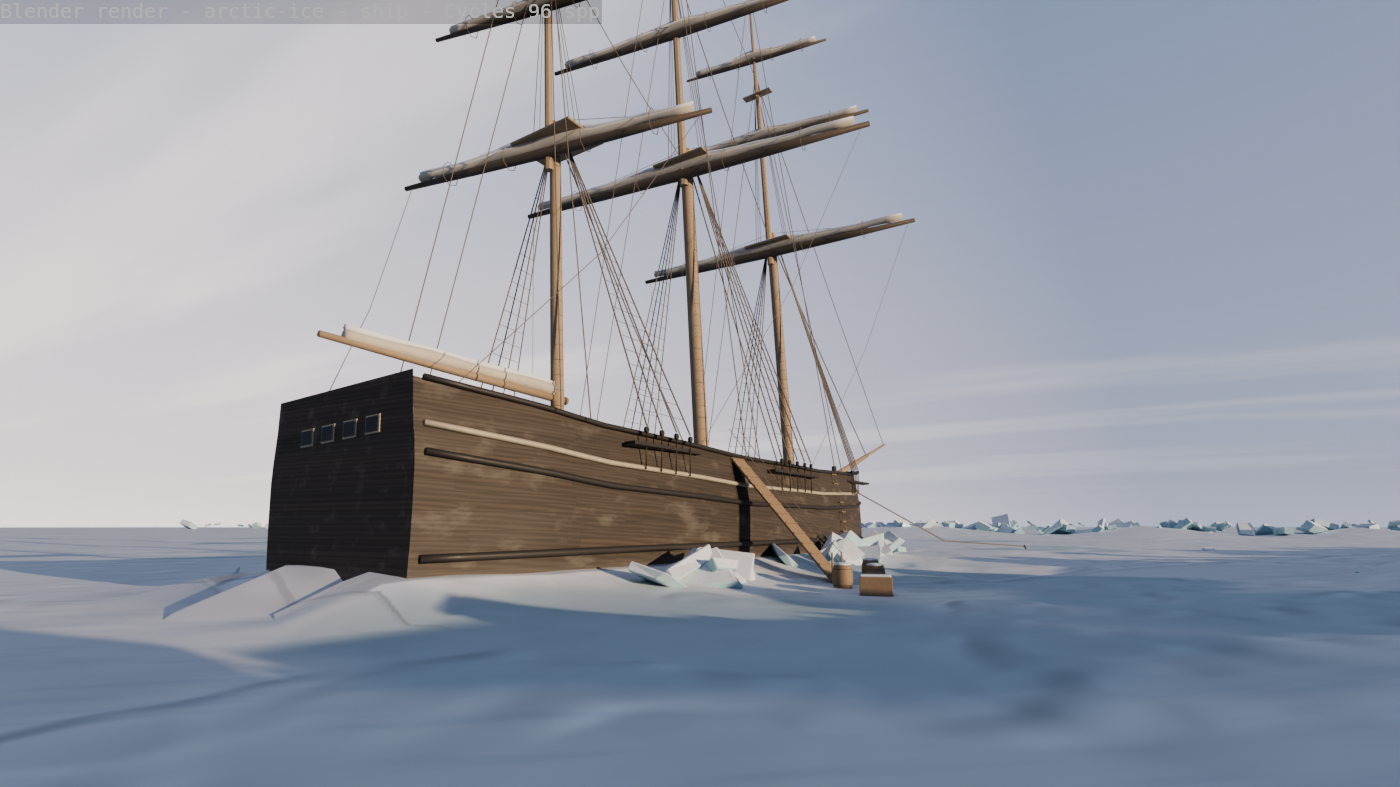
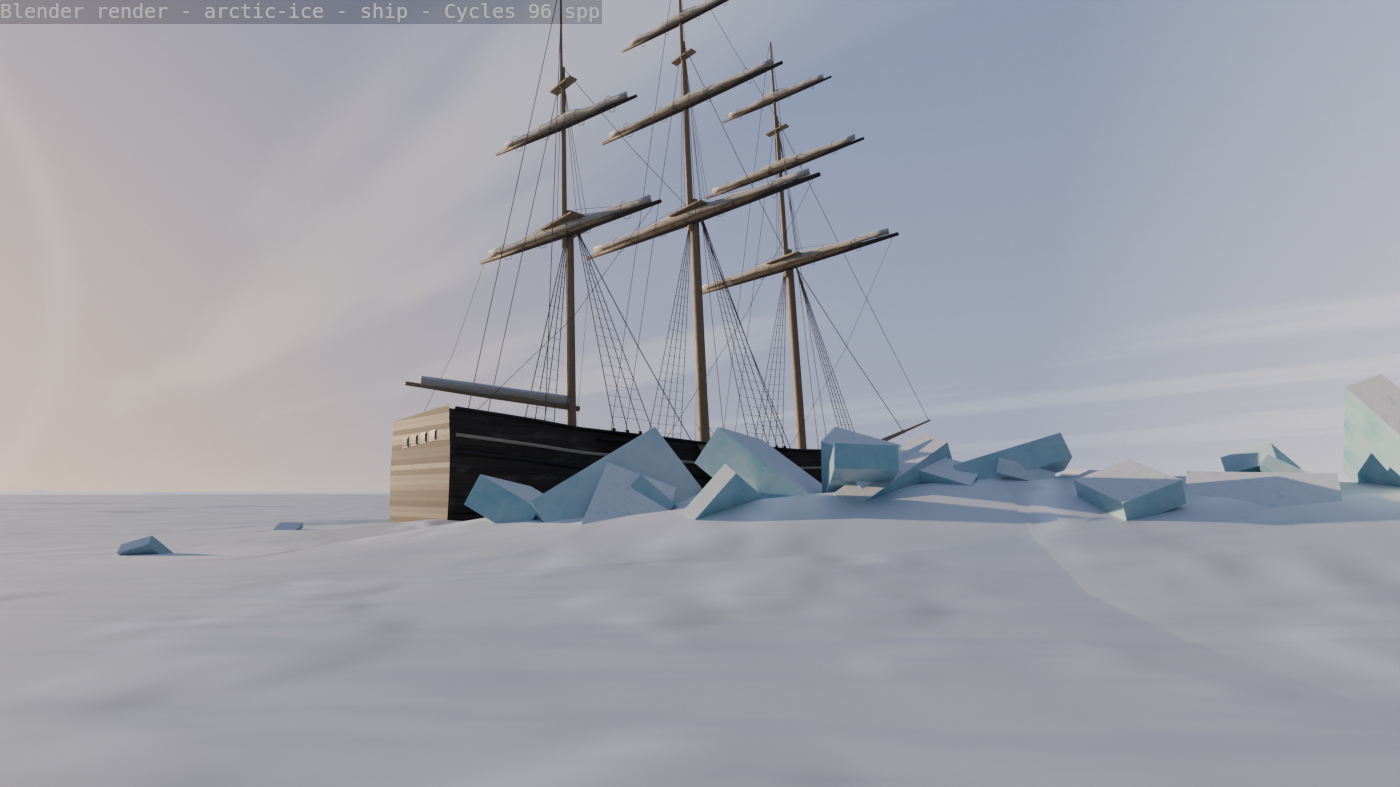
Arctic ice: bring Walton's ship into the reading view
The reader now faces west-north-west with the ship broadside 55 m off on the left of the page (her bow about 22
degrees left of centre, so the page does not hide her), the low sun behind her for a silhouette and rim light. The
sledge track runs from her gangway past the reader's right, so it leads the eye to her, and a pressure ridge runs
out from her stern. The ice anchor is now a deliberate rig: a heavier hawser from the bow to a bedded anchor with
its ring and fluke and a mound of chipped ice, 12 m ahead of her. The ice blocks have more colour variation (clear
blue-green and milky old ice). The ship is moved by translation only, so the hull planking stays aligned.

Outdoor. 42.2k triangles, 17 meshes, 10.7 MB textures. Re-exported to out/arctic-ice/arctic_ice.gltf (out/ is not
committed). Lights unchanged in kind: light.sun (now from about 112 degrees west of north, behind the ship) and
light.sky. Sound, wind and water suggestions as before ("wind-high:0.75+rigging:0.35", Wind 0.75, a calm pond).

diff --git a/blender/build_arctic_ice.py b/blender/build_arctic_ice.py
@@ -9,13 +9,13 @@ half a mile ... We watched the rapid progress of the traveller with our telescop
 distant inequalities of the ice."
 "We are still surrounded by mountains of ice, still in imminent danger of being crushed in their conflict."
 
-The reader stands on the snow-covered floe a few metres off the ship's starboard side, late on a summer night when
+The reader stands on the snow-covered floe fifty-five metres off the ship's starboard beam, late on a summer night when
 the sun hangs a few degrees above the northern horizon. The ship, a three-masted vessel of some 300 tons, lies frozen
 in with a slight list, her sails furled and snow-laden on the yards, her rigging rimed, ice rafted up against her
-side; a gangway and an ice anchor's hawser run down to the floe. A dog-sledge's track starts by her side, passes at
-the reader's right and runs away across the floe toward the north-east, between hummocks and pressure ridges,
-until it is lost among the distant inequalities of the ice, under a far tabular berg. On the left ahead a dark lead
-of open water cuts the floe. The low sun on the right throws long blue shadows across the snow; a faint halo and
+side; a gangway and an ice anchor's hawser run down to the floe. A dog-sledge's track runs from her gangway past
+the reader's right and away across the floe behind the reader toward the north-east, between hummocks and pressure ridges,
+until it is lost among the distant inequalities of the ice. A far tabular berg stands on the horizon; ahead a dark lead
+of open water cuts the floe. The low sun stands behind the ship, rimming her masts and throwing long blue shadows; a faint halo and
 sun dogs ring it. No people.
 
 Everything is procedural (no downloaded models, textures or HDRIs). The floe is a height function in numpy: two
@@ -25,7 +25,7 @@ on the sky dome. Ice blocks of the ridges are bevelled boxes with a baked ice-an
 and rig follow the Pequod's (build_pequod_deck.py), rebuilt for a ship seen from the ice.
 
 Node names Unity relies on:
-  anchor.reader.entrance  the reader's feet on the floe (z = 0), facing north-north-east, the ship on the left
+  anchor.reader.entrance  the reader's feet on the floe (z = 0), facing west-north-west, the ship broadside on the left of the page
   anchor.reader.look      eye height (1.55 m), 2 m ahead
   anchor.scene.centre     the reader's feet
   anchor.ship.mainmast, anchor.ship.gangway, anchor.track.far (the sledge track's vanishing point), anchor.lead
@@ -61,14 +61,14 @@ T0 = time.time()
 def log(*a): print(f"[{time.time() - T0:6.1f}s]", *a, flush=True)
 
 EYE = 1.55
-LOOK_AZ = 28.0
-SUN_AZ, SUN_EL = 92.0, 8.5
+LOOK_AZ = -71.0
+SUN_AZ, SUN_EL = -112.0, 8.5
 def az_dir(az): a = math.radians(az); return Vector((math.sin(a), math.cos(a), 0.0))
 SUN_DIR = (az_dir(SUN_AZ) * math.cos(math.radians(SUN_EL)) + Vector((0, 0, math.sin(math.radians(SUN_EL))))).normalized()
 S_ = np.array(SUN_DIR)
 WL = -0.35
 R_NEAR, R_GEO, R_SKY = 40.0, 1000.0, 1150.0
-SX = -9.5                                   # the ship's centreline
+SX, SY = -54.2, -9.6                        # the ship's centreline x and its midships y (55 m off, her bow 22 degrees left of the page)
 
 # ============================================================================= the floe
 def seg_dist(x, y, pts):
@@ -82,18 +82,18 @@ def seg_dist(x, y, pts):
     return best, s_at
 
 RIDGES = [  # (polyline, crest height, half width)
-    ([(13, -24), (15, -6), (17, 8), (23, 26), (36, 48), (52, 64)], 1.7, 3.2),
+    ([(25, -30), (28, -12), (34, 0), (44, 10)], 1.7, 3.2),
     ([(-70, 58), (-35, 86), (0, 104), (34, 116), (70, 128)], 1.5, 3.5),
-    ([(-48, -58), (-5, -72), (40, -64), (95, -40)], 1.9, 4.0),
+    ([(-6, -10), (-18, -15), (-32, -20), (-45, -25.5)], 1.6, 2.6),          # the ridge that leads the eye to the ship's stern
     ([(95, 250), (180, 290), (290, 300), (420, 290)], 2.4, 6.0),
     ([(-420, 160), (-300, 240), (-200, 320), (-80, 380)], 2.2, 6.0),
     ([(250, -60), (330, 40), (400, 140)], 2.0, 6.0),
     ([(-300, -180), (-180, -260), (-60, -330), (80, -380)], 2.2, 6.0),
     ([(520, 520), (640, 600), (760, 700)], 2.6, 7.0),
 ]
-TRACK = [(-4.4, -6.0), (-1.0, -2.0), (1.5, 1.0), (4.0, 6.5), (9.0, 16.0), (20.0, 34.0), (40.0, 62.0), (70.0, 96.0),
-         (120.0, 150.0), (190.0, 214.0), (250.0, 245.0), (340.0, 340.0), (470.0, 460.0), (640.0, 610.0), (900.0, 840.0)]
-LEAD = [(-330.0, 150.0), (-200.0, 168.0), (-90.0, 186.0), (0.0, 200.0), (55.0, 222.0), (80.0, 246.0)]
+TRACK = [(-46.5, -13.6), (-36.0, -12.0), (-24.0, -8.5), (-13.0, -4.0), (-6.0, -0.8), (-0.4, 1.5), (6.0, 6.0), (20.0, 16.0), (50.0, 40.0),
+         (100.0, 80.0), (180.0, 140.0), (300.0, 230.0), (480.0, 360.0), (700.0, 520.0), (900.0, 660.0)]   # from the gangway, past the reader's right, away
+LEAD = [(-260.0, 180.0), (-170.0, 150.0), (-90.0, 140.0), (-20.0, 170.0), (40.0, 230.0), (70.0, 260.0)]
 LEAD_W = 9.0
 
 def lead_half(s):
@@ -109,8 +109,8 @@ def floe(x, y):
         hh = h * (0.55 + 0.7 * fbm(s / 14.0, h * 3.0, 3, seed=4))
         z = z + hh * np.exp(-(d / hw) ** 2) + 0.25 * hh * np.exp(-(d / (hw * 2.5)) ** 2)
     # the snow banked against the ship, the trodden track (a little sunk)
-    dsh = np.abs(x - SX) - shiphalf(y)
-    z = z + 0.7 * np.exp(-np.maximum(dsh, 0) / 1.6) * (np.abs(y) < 16)
+    dsh = np.abs(x - SX) - shiphalf(y - SY)
+    z = z + 0.7 * np.exp(-np.maximum(dsh, 0) / 1.6) * (np.abs(y - SY) < 16)
     dt, st = seg_dist(x, y, TRACK)
     z = z - 0.04 * sstep(0.7, 0.2, dt)
     dl, sl = seg_dist(x, y, LEAD)
@@ -158,7 +158,7 @@ def snow_albedo(x, y, fp):
     far_tr = sstep(0.9, 0.3, d) * sstep(0.05, 0.3, fp) * 0.12
     col = col * (1 - far_tr[..., None])
     # trodden snow by the ship's gangway, a little soot and spilt tar
-    tro = sstep(9.0, 3.0, np.hypot(x - (SX + 6.0), y + 3.5)) * sstep(0.55, 0.62, fbm(x / 0.6, y / 0.6, 3, seed=16))
+    tro = sstep(9.0, 3.0, np.hypot(x - (SX + 6.0), y - SY + 3.5)) * sstep(0.55, 0.62, fbm(x / 0.6, y / 0.6, 3, seed=16))
     col = col * (1 - 0.12 * tro[..., None])
     # the lead's thin new ice (grey nilas) at its margins
     dl, sl = seg_dist(x, y, LEAD); lw = lead_half(sl)
@@ -286,7 +286,9 @@ def ice_mat():
     m, nt, b = new_mat("M_IceBlock")
     xyz, X, Y, Z = obj_xyz(nt)
     n = noise_tex(nt, xyz, 1.6, 5.0, 0.6); n2 = noise_tex(nt, xyz, 7.0, 4.0, 0.6)
-    col = tone_ramp(nt, n.outputs["Fac"], [(0.20, 0.44, 0.50), (0.32, 0.54, 0.60), (0.50, 0.62, 0.67), (0.26, 0.48, 0.55)])
+    col = tone_ramp(nt, n.outputs["Fac"], [(0.12, 0.38, 0.44), (0.24, 0.50, 0.56), (0.46, 0.60, 0.65), (0.16, 0.42, 0.48)])
+    big = noise_tex(nt, xyz, 0.35, 2.0, 0.5)
+    col = mix_rgb(nt, 'MIX', maprange(nt, big.outputs["Fac"], 0.35, 0.65, 0.0, 0.7), col, (0.52, 0.62, 0.66, 1))       # milky old ice / clear blue new ice
     wv = node(nt, "ShaderNodeTexWave", wave_type='BANDS', bands_direction='Z'); wv.inputs["Scale"].default_value = 3.0
     wv.inputs["Distortion"].default_value = 6.0; nt.links.new(xyz, wv.inputs["Vector"])
     col = mix_rgb(nt, 'MULTIPLY', math_(nt, 'MULTIPLY', wv.outputs["Fac"], 0.12), col, (0.8, 0.85, 0.9, 1))
@@ -331,12 +333,12 @@ for ri, (pts, h, hw) in enumerate(RIDGES):
         s += step * rs.uniform(0.6, 1.4)
 # rafted floe edges against the ship's side, and a few broken blocks about the floe
 for k in range(26):
-    y = rs.uniform(-13, 14); x = SX + float(shiphalf(y)) + rs.uniform(0.2, 1.4)
+    yl = rs.uniform(-13, 14); x = SX + float(shiphalf(yl)) + rs.uniform(0.2, 1.4); y = yl + SY
     sz = rs.uniform(0.6, 1.3)
     ice_block(f"Raft{k}", (x, y, float(gz(x, y)) + 0.1), (sz * 1.6, sz, sz * 0.3), rs); nblk += 1
 for k in range(30):
     a = rs.uniform(0, TWO_PI); r = rs.uniform(8, 90); x, y = r * math.sin(a), r * math.cos(a)
-    if abs(x - SX) < 6 and abs(y) < 17: continue
+    if abs(x - SX) < 6 and abs(y - SY) < 17: continue
     if seg_dist(np.array(x), np.array(y), TRACK)[0] < 2.5: continue
     sz = rs.uniform(0.3, 0.9)
     ice_block(f"Loose{k}", (x, y, float(gz(x, y)) + sz * 0.05), (sz * 1.3, sz, sz * 0.35), rs); nblk += 1
@@ -355,7 +357,7 @@ def hb(y, z):
     top = rail_z(y); s = (z - KEEL) / (top - KEEL)
     tum = 1.0 - 0.06 * sstep(0.78, 1.0, s)
     return max(0.02, float(shiphalf(y)) / 1.02 * sect(s / 0.86) * tum)
-SHIP_M = Matrix.Translation((SX, 0, 0)) @ Matrix.Rotation(-LIST, 4, 'Y')
+SHIP_M = Matrix.Translation((SX, SY, 0)) @ Matrix.Rotation(-LIST, 4, 'Y')
 def W(p): return tuple(SHIP_M @ Vector(p))
 
 M_HULL = planks("M_Hull", 0.20, 6.5, [(0.050, 0.040, 0.032), (0.062, 0.050, 0.040), (0.045, 0.036, 0.029), (0.07, 0.056, 0.044)],
@@ -523,7 +525,7 @@ for nm, (lh, th, tgh), y, L, br in (("Main", MAIN, 0.6, 16.5, 8), ("Fore", FORE,
 
 # --- the gangway and a Jacob's ladder down to the floe, the ice anchor's hawser, things on the ice
 GY = -3.2
-g_top = Vector(W((hb(GY, rail_z(GY)) - 0.05, GY, rail_z(GY) + 0.02))); g_bot = Vector((SX + 6.9, GY - 0.3, float(gz(SX + 6.9, GY - 0.3)) + 0.05))
+g_top = Vector(W((hb(GY, rail_z(GY)) - 0.05, GY, rail_z(GY) + 0.02))); g_bot = Vector((SX + 6.9, SY + GY - 0.3, float(gz(SX + 6.9, SY + GY - 0.3)) + 0.05))
 gd = (g_bot - g_top); gl = gd.length
 G = box("Gangway", (0.75, gl, 0.06), tuple((g_top + g_bot) / 2), M_CASK, rot=(0, 0, 0))
 G.rotation_euler = (gd.normalized().to_track_quat('Y', 'Z')).to_euler()
@@ -537,14 +539,19 @@ for s_ in (-1, 1):
 LY = 6.0
 for k in range(2):
     y = LY + k * 0.42; zt = rail_z(y)
-    rope(f"Ladder{k}", W((hb(y, zt) + 0.06, y, zt)), (SX + hb(y, 0.5) + 0.25, y, float(gz(SX + hb(y, 0.5) + 0.25, y)) + 0.05), 0.012, sides=3)
+    rope(f"Ladder{k}", W((hb(y, zt) + 0.06, y, zt)), (SX + hb(y, 0.5) + 0.25, y + SY, float(gz(SX + hb(y, 0.5) + 0.25, y + SY)) + 0.05), 0.012, sides=3)
 for k in range(9):
     z = 0.4 + k * 0.42; y = LY + 0.21
     box(f"LadderRung{k}", (0.05, 0.5, 0.035), W((hb(y, z) + 0.06 + 0.012 * (8 - k), y, z)), M_CASK)
 HAWSE = Vector(W((0.9, 14.6, rail_z(14.6) - 0.6)))
-ANCHOR = Vector((-1.5, 31.0, float(gz(-1.5, 31.0))))
-rope("IceHawser", HAWSE, ANCHOR + Vector((0, 0, 0.2)), 0.04, sag=1.4, sides=5)
-tube("IceAnchor", [tuple(ANCHOR + Vector((0, -0.2, 0.25))), tuple(ANCHOR + Vector((0, 0.4, 0.05))), tuple(ANCHOR + Vector((0, 0.65, -0.3)))], 0.05, M_IRON, sides=6)
+# the ice anchor: a hawser from the bow's hawse-hole to an iron anchor bedded in a hole cut in the floe 12 m ahead, a
+# mound of the chipped ice beside it
+ANCHOR = Vector((SX + 2.5, SY + 27.5, float(gz(SX + 2.5, SY + 27.5))))
+rope("IceHawser", HAWSE, ANCHOR + Vector((0, -0.25, 0.35)), 0.05, sag=0.9, sides=6)
+tube("IceAnchorShank", [tuple(ANCHOR + Vector((0, -0.3, 0.4))), tuple(ANCHOR + Vector((0, 0.2, 0.15))), tuple(ANCHOR + Vector((0, 0.55, -0.25)))], 0.06, M_IRON, sides=6)
+tube("IceAnchorFluke", [tuple(ANCHOR + Vector((-0.35, 0.5, -0.1))), tuple(ANCHOR + Vector((0, 0.6, -0.2))), tuple(ANCHOR + Vector((0.35, 0.5, -0.1)))], 0.05, M_IRON, sides=5)
+torus("IceAnchorRing", 0.12, 0.025, tuple(ANCHOR + Vector((0, -0.38, 0.45))), M_IRON, rot=(math.pi / 2, 0, 0), seg=10, rseg=4)
+sphere("IceAnchorMound", 0.6, tuple(ANCHOR + Vector((0.7, 0.4, -0.15))), M_SNOWCAP, seg=10, scale=(1.2, 0.9, 0.4))
 def cask(name, p, s=1.0, lying=False, rot=0.0):
     prof = [(0.0, 0.0), (0.24 * s, 0.0), (0.28 * s, 0.15 * s), (0.30 * s, 0.35 * s), (0.28 * s, 0.55 * s), (0.24 * s, 0.70 * s), (0.0, 0.70 * s)]
     o = lathe(name, prof, p, M_CASK, steps=14)
@@ -553,17 +560,17 @@ def cask(name, p, s=1.0, lying=False, rot=0.0):
         t = torus(name + f"Hoop{zz}", 0.27 * s, 0.012, (p[0], p[1], p[2] + zz * s), M_IRON, seg=14, rseg=3)
         if lying: t.location = o.location; t.rotation_euler = o.rotation_euler; t.data.transform(Matrix.Translation((0, 0, zz * s))); t.location = (p[0], p[1], p[2])
     return o
-for k, (x, y) in enumerate(((SX + 7.6, -5.0), (SX + 8.3, -4.3), (SX + 7.4, -1.9))):
+for k, (x, y) in enumerate(((SX + 7.6, SY - 5.0), (SX + 8.3, SY - 4.3), (SX + 7.4, SY - 1.9))):
     cask(f"Cask{k}", (x, y, float(gz(x, y)) - 0.05), 0.95)
     sphere(f"CaskCap{k}", 0.25, (x, y, float(gz(x, y)) + 0.625), M_SNOWCAP, seg=10, scale=(1.0, 1.0, 0.22))
-box("Crate", (0.8, 0.55, 0.5), (SX + 8.9, -6.2, float(gz(SX + 8.9, -6.2)) + 0.2), M_CASK, bevel=0.01, rot=(0, 0, 0.3))
-box("CrateSnow", (0.75, 0.5, 0.06), (SX + 8.9, -6.2, float(gz(SX + 8.9, -6.2)) + 0.47), M_SNOWCAP, bevel=0.025, rot=(0, 0, 0.3))
+box("Crate", (0.8, 0.55, 0.5), (SX + 8.9, SY - 6.2, float(gz(SX + 8.9, SY - 6.2)) + 0.2), M_CASK, bevel=0.01, rot=(0, 0, 0.3))
+box("CrateSnow", (0.75, 0.5, 0.06), (SX + 8.9, SY - 6.2, float(gz(SX + 8.9, SY - 6.2)) + 0.47), M_SNOWCAP, bevel=0.025, rot=(0, 0, 0.3))
 
 # ============================================================================= the sky dome: midnight sun, halo, the far pack, a berg
 SKY_EL0 = -12.0
 def sky_v_of(el): return ((el - SKY_EL0) / (90.0 - SKY_EL0)) ** 0.55
 def sky_el_of_v(v): return SKY_EL0 + (90.0 - SKY_EL0) * v ** (1 / 0.55)
-BERGS = [(40.0, 0.9, 5.0), (-118.0, 0.45, 6.5), (205.0, 0.3, 3.0)]       # (az, height deg, width deg)
+BERGS = [(-38.0, 0.9, 5.0), (-165.0, 0.45, 6.5), (95.0, 0.3, 3.0)]       # (az, height deg, width deg)
 def paint_sky(W_=4096, Hh=1024):
     az = (np.arange(W_) + 0.5) / W_ * 360.0; v = (np.arange(Hh) + 0.5) / Hh; el = sky_el_of_v(v)
     AZ, EL = np.meshgrid(az, el)
@@ -692,7 +699,7 @@ cams = [
     camera("Cam_Right", tuple(E), ahead(-65, -3), clip_end=1500),
     camera("Cam_Behind", tuple(E), ahead(180, 2), clip_end=1500),
     camera("Cam_Up", tuple(E), ahead(75, 45), clip_end=1500),
-    camera("Cam_Ship", (5.0, -24.0, 1.7), (SX, 0.0, 7.0), lens=18, clip_end=1500),
+    camera("Cam_Ship", (-28.0, -36.0, 1.7), (SX, SY, 7.0), lens=18, clip_end=1500),
 ]
 EXPOSURE = {}
 
